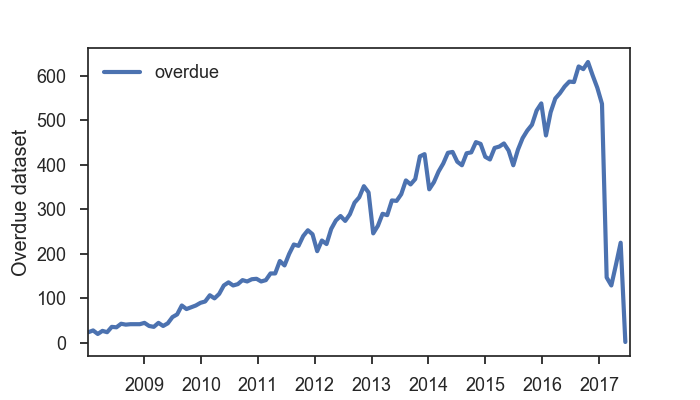
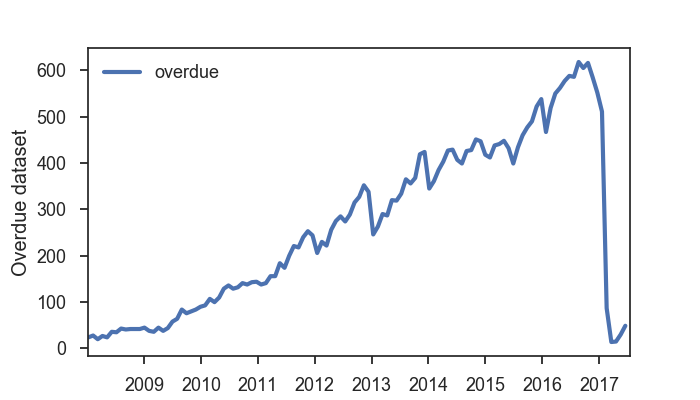
run on new paper dump, output data as json

diff --git a/docs/index.html b/docs/index.html
@@ -44,11 +44,11 @@
         <br> An "overdue" dataset is one that is still has yet to be made public even after the first detected reference in a publication.
         <br>
         <a href="https://www.ncbi.nlm.nih.gov/geo/info/faq.html#holdprivate">GEO rules</a> require authors to make the dataset public once it appears in a publication.
-        <br> Based on <a href="https://gbnci-abcc.ncifcrf.gov/geo/">GEOmetadb</a> with timestamp: 2017-05-21 03:44:25
+        <br> Based on <a href="https://gbnci-abcc.ncifcrf.gov/geo/">GEOmetadb</a> with timestamp: 2017-06-18 02:04:12
         <br>
       </center>
       <br/><br/>
-      <h4>Waiting for 2 datasets as of 2017-06-20:</h4>
+      <h4>Waiting for 49 datasets as of 2017-06-20:</h4>
       <center>
         <table border="1" class="dataframe table table-striped table-bordered">
   <thead>
@@ -69,11 +69,340 @@
       <td>The Stringent Response of Staphylococcus aureus and Its Impact on Survival after Phagocytosis through the Induction of Intracellular PSMs Expression</td>
     </tr>
     <tr>
+      <td><a href="http://www.ncbi.nlm.nih.gov/geo/query/acc.cgi?acc=GSE81069">GSE81069</a></td>
+      <td>2017-01-04</td>
+      <td>Plant Biotechnol J</td>
+      <td><a href="http://dx.doi.org/10.1111/pbi.12673">10.1111/pbi.12673</a></td>
+      <td>The rice OsNAC6 transcription factor orchestrates multiple molecular mechanisms involving root structural adaptions and nicotianamine biosynthesis for drought tolerance</td>
+    </tr>
+    <tr>
       <td><a href="http://www.ncbi.nlm.nih.gov/geo/query/acc.cgi?acc=GSE83658">GSE83658</a></td>
       <td>2017-02-10</td>
       <td>Mol Ther Nucleic Acids</td>
       <td><a href="http://dx.doi.org/10.1016/j.omtn.2017.02.004">10.1016/j.omtn.2017.02.004</a></td>
       <td>Correction of the Exon 2 Duplication in DMD Myoblasts by a Single CRISPR/Cas9 System</td>
+    </tr>
+    <tr>
+      <td><a href="http://www.ncbi.nlm.nih.gov/geo/query/acc.cgi?acc=GSE81827">GSE81827</a></td>
+      <td>2017-02-16</td>
+      <td>Stem Cells Transl Med</td>
+      <td><a href="http://dx.doi.org/10.1002/sctm.16-0229">10.1002/sctm.16-0229</a></td>
+      <td>Potency of Human Cardiosphere‐Derived Cells from Patients with Ischemic Heart Disease Is Associated with Robust Vascular Supportive Ability</td>
+    </tr>
+    <tr>
+      <td><a href="http://www.ncbi.nlm.nih.gov/geo/query/acc.cgi?acc=GSE72664">GSE72664</a></td>
+      <td>2017-02-21</td>
+      <td>Transl Psychiatry</td>
+      <td><a href="http://dx.doi.org/10.1038/tp.2017.27">10.1038/tp.2017.27</a></td>
+      <td>Premature primary tooth eruption in cognitive/motor-delayed ADNP-mutated children</td>
+    </tr>
+    <tr>
+      <td><a href="http://www.ncbi.nlm.nih.gov/geo/query/acc.cgi?acc=GSE81268">GSE81268</a></td>
+      <td>2017-02-21</td>
+      <td>Transl Psychiatry</td>
+      <td><a href="http://dx.doi.org/10.1038/tp.2017.27">10.1038/tp.2017.27</a></td>
+      <td>Premature primary tooth eruption in cognitive/motor-delayed ADNP-mutated children</td>
+    </tr>
+    <tr>
+      <td><a href="http://www.ncbi.nlm.nih.gov/geo/query/acc.cgi?acc=GSE69571">GSE69571</a></td>
+      <td>2017-03-02</td>
+      <td>Genet Mol Biol</td>
+      <td><a href="http://dx.doi.org/10.1590/1678-4685-GMB-2016-0055">10.1590/1678-4685-GMB-2016-0055</a></td>
+      <td>Salt stress affects mRNA editing in soybean chloroplasts</td>
+    </tr>
+    <tr>
+      <td><a href="http://www.ncbi.nlm.nih.gov/geo/query/acc.cgi?acc=GSE86309">GSE86309</a></td>
+      <td>2017-03-17</td>
+      <td>Oncotarget</td>
+      <td><a href="http://dx.doi.org/10.18632/oncotarget.16324">10.18632/oncotarget.16324</a></td>
+      <td>Mechanistic characterization of a copper containing thiosemicarbazone with potent antitumor activity</td>
+    </tr>
+    <tr>
+      <td><a href="http://www.ncbi.nlm.nih.gov/geo/query/acc.cgi?acc=GSE86847">GSE86847</a></td>
+      <td>2017-03-29</td>
+      <td>Oncotarget</td>
+      <td><a href="http://dx.doi.org/10.18632/oncotarget.16644">10.18632/oncotarget.16644</a></td>
+      <td>Developmental transcriptome profiling of bovine muscle tissue reveals an abundant GosB that regulates myoblast proliferation and apoptosis</td>
+    </tr>
+    <tr>
+      <td><a href="http://www.ncbi.nlm.nih.gov/geo/query/acc.cgi?acc=GSE90004">GSE90004</a></td>
+      <td>2017-04-08</td>
+      <td>Plant Mol Biol</td>
+      <td><a href="http://dx.doi.org/10.1007/s11103-017-0603-y">10.1007/s11103-017-0603-y</a></td>
+      <td>Arabidopsis ABI5 plays a role in regulating ROS homeostasis by activating CATALASE 1 transcription in seed germination</td>
+    </tr>
+    <tr>
+      <td><a href="http://www.ncbi.nlm.nih.gov/geo/query/acc.cgi?acc=GSE87185">GSE87185</a></td>
+      <td>2017-04-26</td>
+      <td>Pharmacol Res Perspect</td>
+      <td><a href="http://dx.doi.org/10.1002/prp2.312">10.1002/prp2.312</a></td>
+      <td>Hepatic expression profiles in retroviral infection: relevance to drug hypersensitivity risk</td>
+    </tr>
+    <tr>
+      <td><a href="http://www.ncbi.nlm.nih.gov/geo/query/acc.cgi?acc=GSE87158">GSE87158</a></td>
+      <td>2017-04-26</td>
+      <td>Pharmacol Res Perspect</td>
+      <td><a href="http://dx.doi.org/10.1002/prp2.312">10.1002/prp2.312</a></td>
+      <td>Hepatic expression profiles in retroviral infection: relevance to drug hypersensitivity risk</td>
+    </tr>
+    <tr>
+      <td><a href="http://www.ncbi.nlm.nih.gov/geo/query/acc.cgi?acc=GSE83493">GSE83493</a></td>
+      <td>2017-04-29</td>
+      <td>Nucleic Acids Res</td>
+      <td><a href="http://dx.doi.org/10.1093/nar/gkx326">10.1093/nar/gkx326</a></td>
+      <td>Proteomic analysis of polyribosomes identifies splicing factors as potential regulators of translation during mitosis</td>
+    </tr>
+    <tr>
+      <td><a href="http://www.ncbi.nlm.nih.gov/geo/query/acc.cgi?acc=GSE86604">GSE86604</a></td>
+      <td>2017-04-29</td>
+      <td>Nucleic Acids Res</td>
+      <td><a href="http://dx.doi.org/10.1093/nar/gkx327">10.1093/nar/gkx327</a></td>
+      <td>Global miRNA expression analysis identifies novel key regulators of plasma cell differentiation and malignant plasma cell</td>
+    </tr>
+    <tr>
+      <td><a href="http://www.ncbi.nlm.nih.gov/geo/query/acc.cgi?acc=GSE89923">GSE89923</a></td>
+      <td>2017-05-03</td>
+      <td>Genes (Basel)</td>
+      <td><a href="http://dx.doi.org/10.3390/genes8050132">10.3390/genes8050132</a></td>
+      <td>AKR1C1 as a Biomarker for Differentiating the Biological Effects of Combustible from Non-Combustible Tobacco Products</td>
+    </tr>
+    <tr>
+      <td><a href="http://www.ncbi.nlm.nih.gov/geo/query/acc.cgi?acc=GSE76084">GSE76084</a></td>
+      <td>2017-05-05</td>
+      <td>Cell Death Differ</td>
+      <td><a href="http://dx.doi.org/10.1038/cdd.2017.62">10.1038/cdd.2017.62</a></td>
+      <td>Nucleosome eviction along with H3K9ac deposition enhances Sox2 binding during human neuroectodermal commitment</td>
+    </tr>
+    <tr>
+      <td><a href="http://www.ncbi.nlm.nih.gov/geo/query/acc.cgi?acc=GSE95232">GSE95232</a></td>
+      <td>2017-05-10</td>
+      <td>Data Brief</td>
+      <td><a href="http://dx.doi.org/10.1016/j.dib.2017.05.002">10.1016/j.dib.2017.05.002</a></td>
+      <td>Microarray dataset of transient and permanent DNA methylation changes in HeLa cells undergoing inorganic arsenic-mediated epithelial-to-mesenchymal transition</td>
+    </tr>
+    <tr>
+      <td><a href="http://www.ncbi.nlm.nih.gov/geo/query/acc.cgi?acc=GSE91043">GSE91043</a></td>
+      <td>2017-05-12</td>
+      <td>Nat Commun</td>
+      <td><a href="http://dx.doi.org/10.1038/ncomms15315">10.1038/ncomms15315</a></td>
+      <td>Locus-specific histone deacetylation using a synthetic CRISPR-Cas9-based HDAC</td>
+    </tr>
+    <tr>
+      <td><a href="http://www.ncbi.nlm.nih.gov/geo/query/acc.cgi?acc=GSE96689">GSE96689</a></td>
+      <td>2017-05-12</td>
+      <td>Genom Data</td>
+      <td><a href="http://dx.doi.org/10.1016/j.gdata.2017.05.012">10.1016/j.gdata.2017.05.012</a></td>
+      <td>RNA-seq detects pharmacological inhibition of Epstein-Barr virus late transcription during spontaneous reactivation</td>
+    </tr>
+    <tr>
+      <td><a href="http://www.ncbi.nlm.nih.gov/geo/query/acc.cgi?acc=GSE89107">GSE89107</a></td>
+      <td>2017-05-15</td>
+      <td>Genes (Basel)</td>
+      <td><a href="http://dx.doi.org/10.3390/genes8050144">10.3390/genes8050144</a></td>
+      <td>DNA Methylation Targets Influenced by Bisphenol A and/or Genistein Are Associated with Survival Outcomes in Breast Cancer Patients</td>
+    </tr>
+    <tr>
+      <td><a href="http://www.ncbi.nlm.nih.gov/geo/query/acc.cgi?acc=GSE95018">GSE95018</a></td>
+      <td>2017-05-15</td>
+      <td>Front Immunol</td>
+      <td><a href="http://dx.doi.org/10.3389/fimmu.2017.00535">10.3389/fimmu.2017.00535</a></td>
+      <td>The Transcription Factor ZNF683/HOBIT Regulates Human NK-Cell Development</td>
+    </tr>
+    <tr>
+      <td><a href="http://www.ncbi.nlm.nih.gov/geo/query/acc.cgi?acc=GSE76834">GSE76834</a></td>
+      <td>2017-05-16</td>
+      <td>Front Plant Sci</td>
+      <td><a href="http://dx.doi.org/10.3389/fpls.2017.00780">10.3389/fpls.2017.00780</a></td>
+      <td>Drawing Links from Transcriptome to Metabolites: The Evolution of Aroma in the Ripening Berry of Moscato Bianco (Vitis vinifera L.)</td>
+    </tr>
+    <tr>
+      <td><a href="http://www.ncbi.nlm.nih.gov/geo/query/acc.cgi?acc=GSE85021">GSE85021</a></td>
+      <td>2017-05-16</td>
+      <td>Nat Commun</td>
+      <td><a href="http://dx.doi.org/10.1038/ncomms15205">10.1038/ncomms15205</a></td>
+      <td>Mutant KRAS promotes malignant pleural effusion formation</td>
+    </tr>
+    <tr>
+      <td><a href="http://www.ncbi.nlm.nih.gov/geo/query/acc.cgi?acc=GSE87538">GSE87538</a></td>
+      <td>2017-05-18</td>
+      <td>Front Cell Infect Microbiol</td>
+      <td><a href="http://dx.doi.org/10.3389/fcimb.2017.00186">10.3389/fcimb.2017.00186</a></td>
+      <td>RegA Plays a Key Role in Oxygen-Dependent Establishment of Persistence and in Isocitrate Lyase Activity, a Critical Determinant of In vivo Brucella suis Pathogenicity</td>
+    </tr>
+    <tr>
+      <td><a href="http://www.ncbi.nlm.nih.gov/geo/query/acc.cgi?acc=GSE84365">GSE84365</a></td>
+      <td>2017-05-18</td>
+      <td>Nat Commun</td>
+      <td><a href="http://dx.doi.org/10.1038/ncomms15429">10.1038/ncomms15429</a></td>
+      <td>ASXL2 is essential for haematopoiesis and acts as a haploinsufficient tumour suppressor in leukemia</td>
+    </tr>
+    <tr>
+      <td><a href="http://www.ncbi.nlm.nih.gov/geo/query/acc.cgi?acc=GSE59173">GSE59173</a></td>
+      <td>2017-05-23</td>
+      <td>Front Microbiol</td>
+      <td><a href="http://dx.doi.org/10.3389/fmicb.2017.00929">10.3389/fmicb.2017.00929</a></td>
+      <td>Genome-Wide Transcriptome Analysis Reveals Extensive Alternative Splicing Events in the Protoscoleces of Echinococcus granulosus and Echinococcus multilocularis</td>
+    </tr>
+    <tr>
+      <td><a href="http://www.ncbi.nlm.nih.gov/geo/query/acc.cgi?acc=GSE87286">GSE87286</a></td>
+      <td>2017-05-23</td>
+      <td>Cell Rep</td>
+      <td><a href="http://dx.doi.org/10.1016/j.celrep.2017.05.005">10.1016/j.celrep.2017.05.005</a></td>
+      <td>RUNX1-ETO and RUNX1-EVI1 Differentially Reprogram the Chromatin Landscape in t(8;21) and t(3;21) AML</td>
+    </tr>
+    <tr>
+      <td><a href="http://www.ncbi.nlm.nih.gov/geo/query/acc.cgi?acc=GSE65157">GSE65157</a></td>
+      <td>2017-05-24</td>
+      <td>Front Cell Infect Microbiol</td>
+      <td><a href="http://dx.doi.org/10.3389/fcimb.2017.00210">10.3389/fcimb.2017.00210</a></td>
+      <td>CodY Regulates Thiol Peroxidase Expression as Part of the Pneumococcal Defense Mechanism against H2O2 Stress</td>
+    </tr>
+    <tr>
+      <td><a href="http://www.ncbi.nlm.nih.gov/geo/query/acc.cgi?acc=GSE84748">GSE84748</a></td>
+      <td>2017-05-24</td>
+      <td>Int J Oncol</td>
+      <td><a href="http://dx.doi.org/10.3892/ijo.2017.4017">10.3892/ijo.2017.4017</a></td>
+      <td>Effects of genistein supplementation on genome-wide DNA methylation and gene expression in patients with localized prostate cancer</td>
+    </tr>
+    <tr>
+      <td><a href="http://www.ncbi.nlm.nih.gov/geo/query/acc.cgi?acc=GSE84749">GSE84749</a></td>
+      <td>2017-05-24</td>
+      <td>Int J Oncol</td>
+      <td><a href="http://dx.doi.org/10.3892/ijo.2017.4017">10.3892/ijo.2017.4017</a></td>
+      <td>Effects of genistein supplementation on genome-wide DNA methylation and gene expression in patients with localized prostate cancer</td>
+    </tr>
+    <tr>
+      <td><a href="http://www.ncbi.nlm.nih.gov/geo/query/acc.cgi?acc=GSE86550">GSE86550</a></td>
+      <td>2017-05-24</td>
+      <td>Brain</td>
+      <td><a href="http://dx.doi.org/10.1093/brain/awx094">10.1093/brain/awx094</a></td>
+      <td>\nATAD3 gene cluster deletions cause cerebellar dysfunction associated with altered mitochondrial DNA and cholesterol metabolism</td>
+    </tr>
+    <tr>
+      <td><a href="http://www.ncbi.nlm.nih.gov/geo/query/acc.cgi?acc=GSE97659">GSE97659</a></td>
+      <td>2017-05-24</td>
+      <td>Front Plant Sci</td>
+      <td><a href="http://dx.doi.org/10.3389/fpls.2017.00803">10.3389/fpls.2017.00803</a></td>
+      <td>Molecular Link between Leaf Coloration and Gene Expression of Flavonoid and Carotenoid Biosynthesis in Camellia sinensis Cultivar ‘Huangjinya’</td>
+    </tr>
+    <tr>
+      <td><a href="http://www.ncbi.nlm.nih.gov/geo/query/acc.cgi?acc=GSE86446">GSE86446</a></td>
+      <td>2017-05-30</td>
+      <td>BMC Genomics</td>
+      <td><a href="http://dx.doi.org/10.1186/s12864-017-3803-6">10.1186/s12864-017-3803-6</a></td>
+      <td>Systems-based approach to examine the cytokine responses in primary mouse lung macrophages infected with low pathogenic avian Influenza virus circulating in South East Asia</td>
+    </tr>
+    <tr>
+      <td><a href="http://www.ncbi.nlm.nih.gov/geo/query/acc.cgi?acc=GSE87463">GSE87463</a></td>
+      <td>2017-05-30</td>
+      <td>PLoS One</td>
+      <td><a href="http://dx.doi.org/10.1371/journal.pone.0176947">10.1371/journal.pone.0176947</a></td>
+      <td>Gene expression patterns induced at different stages of rhinovirus infection in human alveolar epithelial cells</td>
+    </tr>
+    <tr>
+      <td><a href="http://www.ncbi.nlm.nih.gov/geo/query/acc.cgi?acc=GSE96073">GSE96073</a></td>
+      <td>2017-05-30</td>
+      <td>PLoS One</td>
+      <td><a href="http://dx.doi.org/10.1371/journal.pone.0177989">10.1371/journal.pone.0177989</a></td>
+      <td>Yellow-Leaf 1 encodes a magnesium-protoporphyrin IX monomethyl ester cyclase, involved in chlorophyll biosynthesis in rice (Oryza sativa L.)</td>
+    </tr>
+    <tr>
+      <td><a href="http://www.ncbi.nlm.nih.gov/geo/query/acc.cgi?acc=GSE96844">GSE96844</a></td>
+      <td>2017-05-30</td>
+      <td>Front Microbiol</td>
+      <td><a href="http://dx.doi.org/10.3389/fmicb.2017.00970">10.3389/fmicb.2017.00970</a></td>
+      <td>Lauroyl Arginate Ethyl Blocks the Iron Signals Necessary for Pseudomonas aeruginosa Biofilm Development</td>
+    </tr>
+    <tr>
+      <td><a href="http://www.ncbi.nlm.nih.gov/geo/query/acc.cgi?acc=GSE98105">GSE98105</a></td>
+      <td>2017-05-30</td>
+      <td>Heliyon</td>
+      <td><a href="http://dx.doi.org/10.1016/j.heliyon.2017.e00309">10.1016/j.heliyon.2017.e00309</a></td>
+      <td>Wound healing protects against chemotherapy-induced alopecia in young rats via up-regulating interleukin-1β-mediated signaling</td>
+    </tr>
+    <tr>
+      <td><a href="http://www.ncbi.nlm.nih.gov/geo/query/acc.cgi?acc=GSE94753">GSE94753</a></td>
+      <td>2017-06-01</td>
+      <td>PLoS One</td>
+      <td><a href="http://dx.doi.org/10.1371/journal.pone.0178485">10.1371/journal.pone.0178485</a></td>
+      <td>Global transcriptome profiling identifies KLF15 and SLC25A10 as modifiers of adipocytes insulin sensitivity in obese women</td>
+    </tr>
+    <tr>
+      <td><a href="http://www.ncbi.nlm.nih.gov/geo/query/acc.cgi?acc=GSE72324">GSE72324</a></td>
+      <td>2017-06-01</td>
+      <td>J Allergy Clin Immunol</td>
+      <td><a href="http://dx.doi.org/10.1016/j.jaci.2016.09.024">10.1016/j.jaci.2016.09.024</a></td>
+      <td>Intradermal grass pollen immunotherapy increases TH2 and IgE responses and worsens respiratory allergic symptoms</td>
+    </tr>
+    <tr>
+      <td><a href="http://www.ncbi.nlm.nih.gov/geo/query/acc.cgi?acc=GSE90878">GSE90878</a></td>
+      <td>2017-06-01</td>
+      <td>PLoS One</td>
+      <td><a href="http://dx.doi.org/10.1371/journal.pone.0178700">10.1371/journal.pone.0178700</a></td>
+      <td>Frameshift indels introduced by genome editing can lead to in-frame exon skipping</td>
+    </tr>
+    <tr>
+      <td><a href="http://www.ncbi.nlm.nih.gov/geo/query/acc.cgi?acc=GSE47400">GSE47400</a></td>
+      <td>2017-06-05</td>
+      <td>BMC Genomics</td>
+      <td><a href="http://dx.doi.org/10.1186/s12864-017-3823-2">10.1186/s12864-017-3823-2</a></td>
+      <td>Identification of conserved genes triggering puberty in European sea bass males (Dicentrarchus labrax) by microarray expression profiling</td>
+    </tr>
+    <tr>
+      <td><a href="http://www.ncbi.nlm.nih.gov/geo/query/acc.cgi?acc=GSE83393">GSE83393</a></td>
+      <td>2017-06-05</td>
+      <td>Environ Health</td>
+      <td><a href="http://dx.doi.org/10.1186/s12940-017-0264-y">10.1186/s12940-017-0264-y</a></td>
+      <td>Newborn sex-specific transcriptome signatures and gestational exposure to fine particles: findings from the ENVIRONAGE birth cohort</td>
+    </tr>
+    <tr>
+      <td><a href="http://www.ncbi.nlm.nih.gov/geo/query/acc.cgi?acc=GSE86355">GSE86355</a></td>
+      <td>2017-06-05</td>
+      <td>BMC Med</td>
+      <td><a href="http://dx.doi.org/10.1186/s12916-017-0851-3">10.1186/s12916-017-0851-3</a></td>
+      <td>Comprehensive DNA methylation study identifies novel progression-related and prognostic markers for cutaneous melanoma</td>
+    </tr>
+    <tr>
+      <td><a href="http://www.ncbi.nlm.nih.gov/geo/query/acc.cgi?acc=GSE80621">GSE80621</a></td>
+      <td>2017-06-07</td>
+      <td>Sci Rep</td>
+      <td><a href="http://dx.doi.org/10.1038/s41598-017-03258-y">10.1038/s41598-017-03258-y</a></td>
+      <td>NOD1 deficiency impairs CD44a/Lck as well as PI3K/Akt pathway</td>
+    </tr>
+    <tr>
+      <td><a href="http://www.ncbi.nlm.nih.gov/geo/query/acc.cgi?acc=GSE80622">GSE80622</a></td>
+      <td>2017-06-07</td>
+      <td>Sci Rep</td>
+      <td><a href="http://dx.doi.org/10.1038/s41598-017-03258-y">10.1038/s41598-017-03258-y</a></td>
+      <td>NOD1 deficiency impairs CD44a/Lck as well as PI3K/Akt pathway</td>
+    </tr>
+    <tr>
+      <td><a href="http://www.ncbi.nlm.nih.gov/geo/query/acc.cgi?acc=GSE66925">GSE66925</a></td>
+      <td>2017-06-08</td>
+      <td>Sci Rep</td>
+      <td><a href="http://dx.doi.org/10.1038/s41598-017-03061-9">10.1038/s41598-017-03061-9</a></td>
+      <td>Comprehensive study of excess phosphate response reveals ethylene mediated signaling that negatively regulates plant growth and development</td>
+    </tr>
+    <tr>
+      <td><a href="http://www.ncbi.nlm.nih.gov/geo/query/acc.cgi?acc=GSE87446">GSE87446</a></td>
+      <td>2017-06-08</td>
+      <td>Sci Rep</td>
+      <td><a href="http://dx.doi.org/10.1038/s41598-017-02798-7">10.1038/s41598-017-02798-7</a></td>
+      <td>Mechanistic roles of microRNAs in hepatocarcinogenesis: A study of thioacetamide with multiple doses and time-points of rats</td>
+    </tr>
+    <tr>
+      <td><a href="http://www.ncbi.nlm.nih.gov/geo/query/acc.cgi?acc=GSE88827">GSE88827</a></td>
+      <td>2017-06-08</td>
+      <td>Sci Rep</td>
+      <td><a href="http://dx.doi.org/10.1038/s41598-017-03164-3">10.1038/s41598-017-03164-3</a></td>
+      <td>Characterization of a new murine cell line of sarcomatoid hepatocellular carcinoma and its application for biomarker/therapy development</td>
+    </tr>
+    <tr>
+      <td><a href="http://www.ncbi.nlm.nih.gov/geo/query/acc.cgi?acc=GSE94108">GSE94108</a></td>
+      <td>2017-06-12</td>
+      <td>Sci Rep</td>
+      <td><a href="http://dx.doi.org/10.1038/s41598-017-02969-6">10.1038/s41598-017-02969-6</a></td>
+      <td>Cerebrospinal fluid microRNAs are potential biomarkers of temporal lobe epilepsy and status epilepticus</td>
     </tr>
   </tbody>
 </table>

diff --git a/build_page.py b/build_page.py
@@ -1,15 +1,16 @@
+import sqlite3
+import re
+import argparse
+import json
+import datetime
 import pandas as pd
 import matplotlib as mpl
 mpl.use('Agg')
 import matplotlib.pyplot as plt
 import numpy as np
-import datetime
 import seaborn as sns
 from dateutil.parser import parse
 import tqdm
-import sqlite3
-import re
-import argparse
 
 import GEOCacher
 
@@ -196,6 +197,14 @@ def update_html(df, metadb_timestamp):
         f.write(final_html.encode("utf-8"))
 
 
+
+def prepare_data_json(df_private, meta_timestamp, update_date):
+    result = dict()
+    result["meta_timestamp"] = meta_timestamp
+    result["update_date"] = update_date
+    result["data"] = [row[1].to_dict() for row in df_private.iterrows()]
+    json.dump(result, open("private_geo.json", "w"))
+
 def main():
     parser = argparse.ArgumentParser(description='Build a page for datawatch')
 
@@ -214,6 +223,7 @@ def main():
         df_released.to_csv(args.output + "_released.csv", encoding='utf-8')
         graph_df.to_csv(args.output + "_graph.csv", encoding='utf-8')
 
+    prepare_data_json(df_private, meta_timestamp, str(datetime.date.today()))
     update_html(df_private, meta_timestamp)
     update_graph(graph_df)
 
